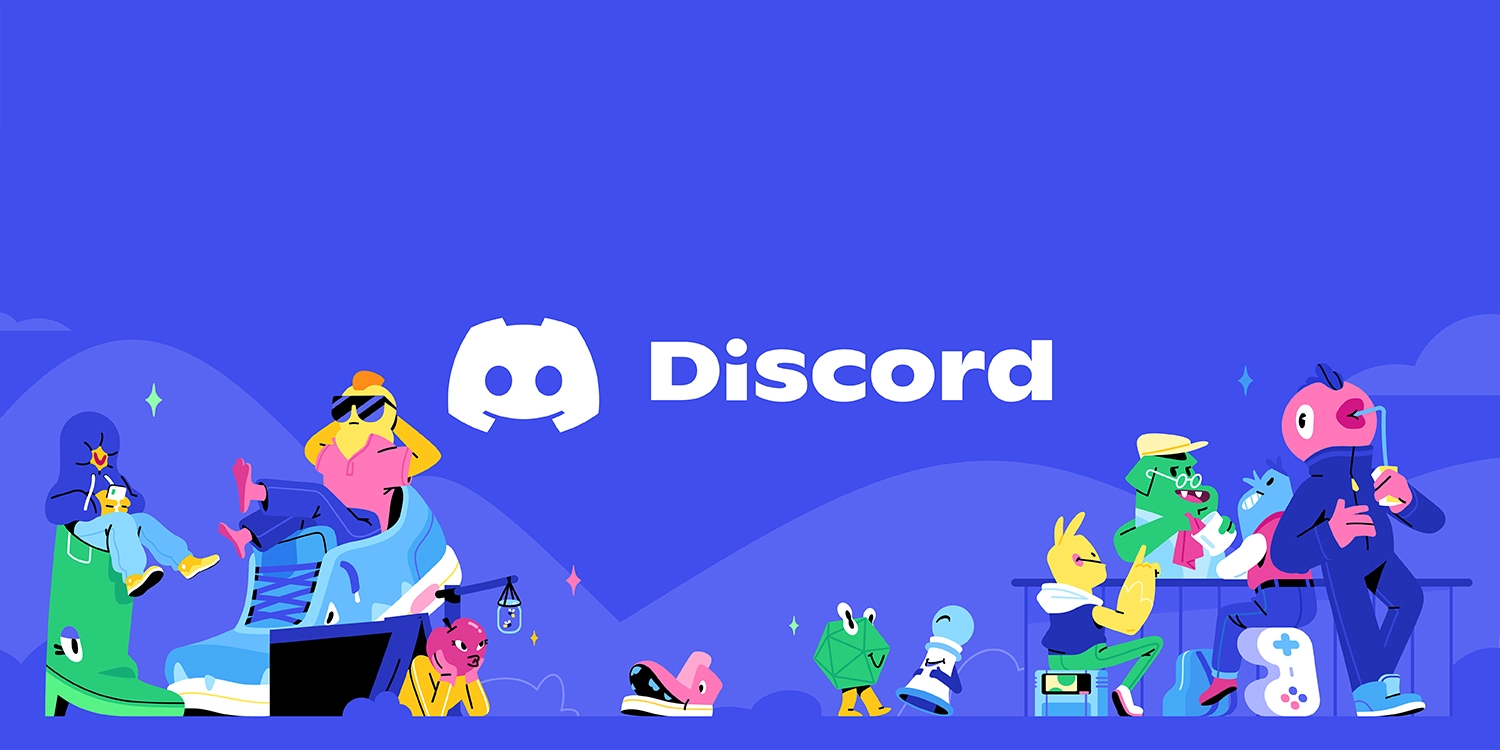
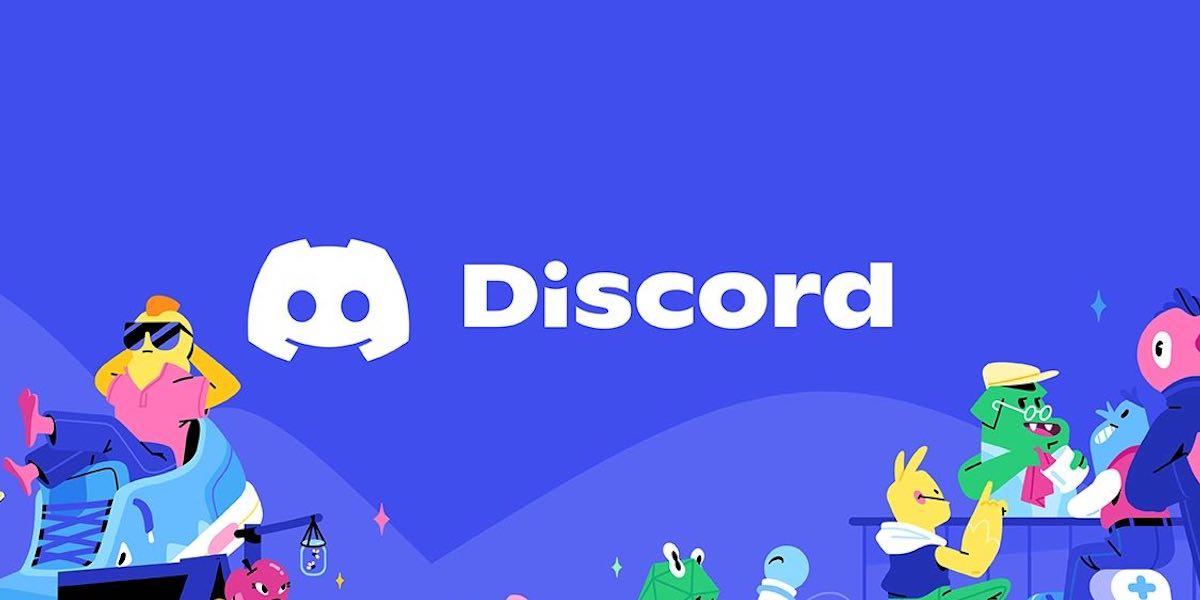
Pull down and store jpgs. Crop images to be the same ratio.

diff --git a/app/routes/index.tsx b/app/routes/index.tsx
@@ -1,5 +1,7 @@
 import MeetupIcon from "~/components/icons/MeetupIcon";
-import DiscordHeader from "~/images/discord-header.jpg";
+import DiscordHeaderImage from "~/images/discord-header.jpg";
+import HeroImage from "~/images/hero.jpg";
+import GivePresentationImage from "~/images/give-a-presentation.jpg";
 
 interface CardProps {
   altText: string;
@@ -35,7 +37,7 @@ export default function Index() {
       <div
         className="hero mb-8"
         style={{
-          backgroundImage: `url("https://secure.meetupstatic.com/photos/event/7/4/6/6/highres_505889798.jpeg")`,
+          backgroundImage: `url(${HeroImage})`,
         }}
       >
         <div className="hero-overlay bg-opacity-90"></div>
@@ -76,14 +78,14 @@ export default function Index() {
                 what you've been learning. Not to mention, it helps others learn
                 too! Feel free to reach out if you want to know more."
           altText="Remix presentation on Medusa"
-          imgSrc="https://secure.meetupstatic.com/photos/event/7/4/6/5/highres_505889797.webp"
+          imgSrc={GivePresentationImage}
         />
         <Card
           altText="Discord header with interesting creatures"
           cta="Chat with us"
           ctaLink="https://discord.com/channels/770287896669978684/953371044108972112"
           heading="Connect on Discord"
-          imgSrc={DiscordHeader}
+          imgSrc={DiscordHeaderImage}
           text="We want to help each other build better experiences on the web for our users by learning and teaching Remix together."
         />
       </div>
